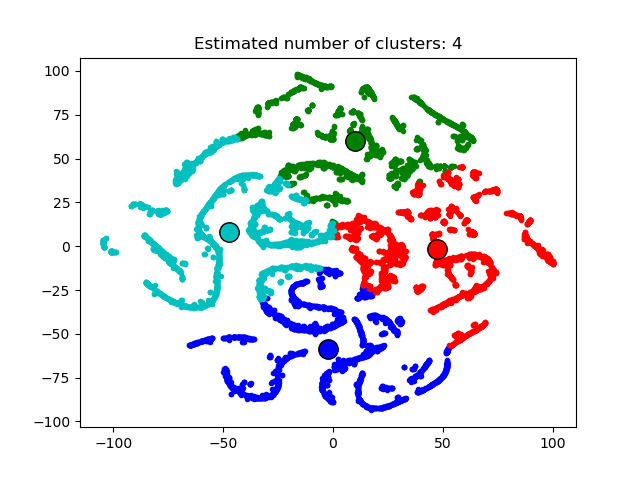
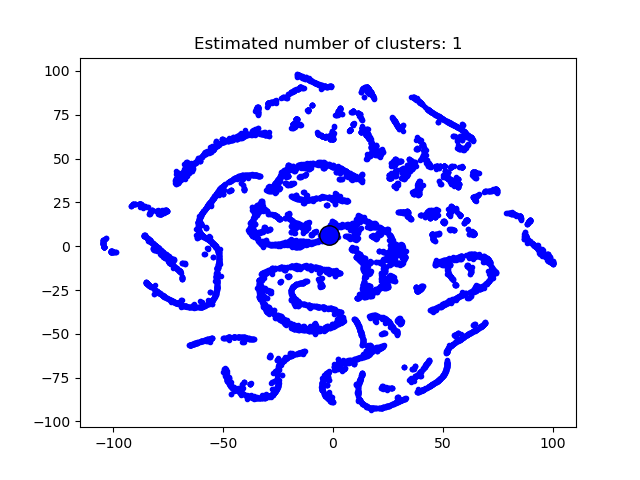
Results: 4. Rewrote the code 5. Fixed a bug with displaying graph 6. Added new two features

diff --git a/main.py b/main.py
@@ -16,144 +16,190 @@ from sklearn.cluster import KMeans
 
 from itertools import cycle
 
-df = pd.read_csv('data/features.csv', nrows=1000000, index_col=0)
-
-# # Basic analysis for data
-# print('\nDataFrame:', '\n', df)
-# print('\nDataFrame columns: ', '\n', df.columns)
-# print('\nDataFrame info:', '\n', df.info(verbose=True))
-# print('\nDataFrame description:', '\n', df.describe())
-# print('\nDataFrame shape:', '\n', df.shape)
-#
-# # Correlation for data
-# sns.heatmap(df[df.columns[1:]].corr(), square=True)
-# plt.plot()
-# print('\nCorrelation:', '\n', df[df.columns[1:]].corr() > 0.9)
-
 
 # Reduction to 2D
-sdata = shuffle(df, random_state=321)
-subset_l = 1000 # number of rows
-selected_features = df.columns[1:]
-objects_with_nan = sdata.index[np.any(np.isnan(sdata[selected_features].values), axis=1)]
-data_subset = scale(sdata[selected_features].drop(objects_with_nan, axis=0)[:subset_l])
-response_subset = sdata["out_parties_n"].drop(objects_with_nan, axis=0)[:subset_l]
+def data_preparation(df, random_state=321, sample=1000):
 
+    # Create new two features: in_value_range, out_value_range
+    df['in_value_range'] = df['in_value_max'] - df['in_value_min']
+    df['out_value_range'] = df['out_value_max'] - df['out_value_min']
+
+    subset_l = sample # number of rows
+    sdata = shuffle(df, random_state=random_state)
+    selected_features = df.columns[1:]
+    objects_with_nan = sdata.index[np.any(np.isnan(sdata[selected_features].values), axis=1)]
+    drop = sdata[selected_features].drop(objects_with_nan, axis=0)[:subset_l]
+    data_subset = scale(drop)
+    response_subset = sdata["out_parties_n"].drop(objects_with_nan, axis=0)[:subset_l]
+
+    return drop, data_subset, response_subset
 
 # tSNE
-tsne = TSNE(random_state=321)
-tsne_representation = tsne.fit_transform(data_subset)
+def tsne(data_subset, random_state=321):
+    tsne = TSNE(random_state=random_state)
+    tsne_representation = tsne.fit_transform(data_subset)
 
-colors = cm.rainbow(np.linspace(0, 1, len(set(response_subset))))
-for y, c in zip(set(df.index), colors):
-    plt.scatter(tsne_representation[response_subset.values==y, 0],
-                tsne_representation[response_subset.values==y, 1],
-                color=c, alpha=0.5, label=str(y))
+    return tsne_representation
 
-# palette = sns.color_palette("bright", 10)
-# sns.scatterplot(tsne_representation[:,0], tsne_representation[:,1], legend='full', palette=palette)
+def plot_tsne(tsne_representation, response_subset):
+    colors = cm.rainbow(np.linspace(0, 1, len(set(response_subset))))
+    for y, c in zip(set(df.index), colors):
+        plt.scatter(tsne_representation[response_subset.values == y, 0],
+                    tsne_representation[response_subset.values == y, 1],
+                    color=c, alpha=0.5, label=str(y))
 
-plt.title("T-SNE for %d rows" % subset_l)
-plt.savefig('graphs/tsne_%d.png' % subset_l)
-plt.plot()
-plt.show()
+    # palette = sns.color_palette("bright", 10)
+    # sns.scatterplot(tsne_representation[:, 0], tsne_representation[:, 1], legend='full', palette=palette)
 
+    plt.title("T-SNE for %d rows" % len(tsne_representation))
+    plt.savefig('graphs/tsne_%d.png' % len(tsne_representation))
+    plt.plot()
+    plt.show()
 
+# MDS
+def mds(data_subset, random_state=321):
+    mds = MDS(random_state = random_state)
+    MDS_transformed = mds.fit_transform(data_subset)
 
-# # MDS
-# mds = MDS(random_state = 321)
-# MDS_transformed = mds.fit_transform(data_subset)
-#
-# colors = cm.rainbow(np.linspace(0, 1, len(set(response_subset))))
-# for y, c in zip(set(response_subset), colors):
-#     plt.scatter(MDS_transformed[response_subset.values==y, 0],
-#                 MDS_transformed[response_subset.values==y, 1],
-#                 color=c, alpha=0.5, label=str(y))
-#
-# # plt.xlim(-5, 5)
-# # plt.ylim(-5, 5)  # -
-#
-# plt.title("MDS for %d rows" % subset_l)
-# plt.savefig('graphs/mds_%d.png' % subset_l)
-# plt.plot()
+    return MDS_transformed
 
+def plot_mds(MDS_transformed, response_subset):
+    colors = cm.rainbow(np.linspace(0, 1, len(set(response_subset))))
+    for y, c in zip(set(response_subset), colors):
+        plt.scatter(MDS_transformed[response_subset.values==y, 0],
+                    MDS_transformed[response_subset.values==y, 1],
+                    color=c, alpha=0.5, label=str(y))
 
+    # plt.xlim(-5, 5)
+    # plt.ylim(-5, 5)  # -
 
-# # MDS with cos
-# data_subset_cosine = pairwise_distances(data_subset, metric='cosine')
-# MDS_transformed_cos = MDS(dissimilarity='precomputed',random_state = 321).fit_transform(data_subset_cosine)
-#
-# colors = cm.rainbow(np.linspace(0, 1, len(set(response_subset))))
-# for y, c in zip(set(response_subset), colors):
-#     plt.scatter(MDS_transformed_cos[response_subset.values[:subset_l]==y, 0],
-#                 MDS_transformed_cos[response_subset.values[:subset_l]==y, 1],
-#                 color=c, alpha=0.5, label=str(y))
-# plt.legend(
-# plt.title("MDS_cosine for %d rows" % subset_l)
-# plt.savefig('graphs/mds_cosine_%d.png' % subset_l)
-# plt.plot()
+    plt.title("MDS for %d rows" % len(MDS_transformed))
+    plt.savefig('graphs/mds_%d.png' % len(MDS_transformed))
+    plt.plot()
+    plt.show()
 
+# MDS with cos
+def mds_cos(data_subset, random_state=321):
+    data_subset_cosine = pairwise_distances(data_subset, metric='cosine')
+    MDS_transformed_cos = MDS(dissimilarity='precomputed',random_state = random_state).fit_transform(data_subset_cosine)
+
+    return MDS_transformed_cos
+
+def plot_mds_cos(MDS_transformed_cos, response_subset):
+    colors = cm.rainbow(np.linspace(0, 1, len(set(response_subset))))
+    for y, c in zip(set(response_subset), colors):
+        plt.scatter(MDS_transformed_cos[response_subset.values==y, 0],
+                    MDS_transformed_cos[response_subset.values==y, 1],
+                    color=c, alpha=0.5, label=str(y))
+    plt.legend()
+    plt.title("MDS_cosine for %d rows" % len(MDS_transformed_cos))
+    plt.savefig('graphs/mds_cosine_%d.png' % len(MDS_transformed_cos))
+    plt.plot()
+    plt.show()
 
 
 # Cluster algorithms
 
 # MeanShift
-bandwidth = estimate_bandwidth(tsne_representation, quantile=0.2, n_samples=subset_l)
-model = MeanShift(bandwidth=bandwidth)
-clustering = model.fit(tsne_representation)
+def meanshift(data_representation, subset_l=1000):
 
-labels = model.labels_
-cluster_centers = model.cluster_centers_
+    bandwidth = estimate_bandwidth(data_representation, quantile=0.2, n_samples=subset_l)
+    model = MeanShift(bandwidth=bandwidth)
+    clustering = model.fit(data_representation)
 
-labels_unique = np.unique(labels)
-n_clusters_ = len(labels_unique)
+    labels = model.labels_
+    cluster_centers = model.cluster_centers_
 
-print("Number of estimated clusters : %d" % n_clusters_)
+    labels_unique = np.unique(labels)
+    n_clusters_ = len(labels_unique)
 
-# # K-Means
-# # To decide how many clusters to choose for K-Means
+    print("Number of estimated clusters : %d" % n_clusters_)
 
-# inertia = []
-# for k in range(1, 30):
-#     kmeans = KMeans(n_clusters=k, random_state=1).fit(tsne_representation)
-#     inertia.append(np.sqrt(kmeans.inertia_))
-#
-# plt.plot(range(1, 30), inertia, marker='s')
-# plt.xlabel('$k$')
-# plt.ylabel('$J(C_k)$')
-# plt.savefig('graphs/k_for_%d.png' % subset_l)
-# plt.show()
+    return clustering, cluster_centers, labels, n_clusters_
+
+# K-Means
+# To decide how many clusters to choose for K-Means
+
+def cluster_kmeans(data_representation):
+    inertia = []
+    for k in range(1, 30):
+        kmeans = KMeans(n_clusters=k, random_state=1).fit(data_representation)
+        inertia.append(np.sqrt(kmeans.inertia_))
+
+    plt.plot(range(1, 30), inertia, marker='s')
+    plt.xlabel('$k$')
+    plt.ylabel('$J(C_k)$')
+    plt.savefig('graphs/k_for_%d.png' % len(data_representation))
+    plt.show()
 
 # Try 4 clusters for 1000 rows
-# kmeans = KMeans(n_clusters=4, random_state=1).fit(tsne_representation)
-# labels = kmeans.labels_
-# cluster_centers = kmeans.cluster_centers_
-#
-# labels_unique = np.unique(labels)
-# n_clusters_ = len(labels_unique)
-#
-# print("number of estimated clusters : %d" % n_clusters_)
+def kmeans(data_representation, n_clusters=4, random_state=321):
 
+    kmeans = KMeans(n_clusters=n_clusters, random_state=random_state)
+    clustering = kmeans.fit(data_representation)
+    labels = kmeans.labels_
+    cluster_centers = kmeans.cluster_centers_
+
+    labels_unique = np.unique(labels)
+    n_clusters_ = len(labels_unique)
+
+    print("number of estimated clusters : %d" % n_clusters_)
+
+    return clustering, cluster_centers, labels, n_clusters_
 
 
 # Plot clusters
-plt.figure(1)
-plt.clf()
+def plot_clusters(n_clusters_, labels, cluster_centers, data_representation):
+    plt.figure(1)
+    plt.clf()
 
-colors = cycle("bgrcmykbgrcmykbgrcmykbgrcmyk")
-for k, col in zip(range(n_clusters_), colors):
-    my_members = labels == k
-    cluster_center = cluster_centers[k]
-    plt.plot(tsne_representation[my_members, 0], tsne_representation[my_members, 1], col + ".")
-    plt.plot(
-        cluster_center[0],
-        cluster_center[1],
-        "o",
-        markerfacecolor=col,
-        markeredgecolor="k",
-        markersize=14,
-    )
-plt.title("Estimated number of clusters: %d" % n_clusters_)
-plt.savefig('graphs/clusters_for_%d.png' % subset_l)
+    colors = cycle("bgrcmykbgrcmykbgrcmykbgrcmyk")
+    for k, col in zip(range(n_clusters_), colors):
+        my_members = labels == k
+        cluster_center = cluster_centers[k]
+        plt.plot(data_representation[my_members, 0], data_representation[my_members, 1], col + ".")
+        plt.plot(
+            cluster_center[0],
+            cluster_center[1],
+            "o",
+            markerfacecolor=col,
+            markeredgecolor="k",
+            markersize=14,
+        )
+    plt.title("Estimated number of clusters: %d" % n_clusters_)
+    plt.savefig('graphs/clusters_for_%d.png' % len(data_representation))
+    plt.plot()
+    plt.show()
+
+
+df = pd.read_csv('data/features.csv', nrows=1000000, index_col=0)
+
+# Basic analysis for data
+print('\nDataFrame:', '\n', df)
+print('\nDataFrame columns: ', '\n', df.columns)
+print('\nDataFrame info:', '\n', df.info(verbose=True))
+print('\nDataFrame description:', '\n', df.describe())
+print('\nDataFrame shape:', '\n', df.shape)
+
+# Correlation for data
+sns.heatmap(df[df.columns[1:]].corr(), square=True)
 plt.plot()
 plt.show()
+print('\nCorrelation:', '\n', df[df.columns[1:]].corr() > 0.9)
+
+sdata, data_subset, response_subset = data_preparation(df)
+data_representation = tsne(data_subset)
+plot_tsne(data_representation, response_subset)
+
+clustering, cluster_centers, labels, n_clusters_ = meanshift(data_representation)
+print('clustering: ', clustering)
+print('cluster_centers: ', cluster_centers)
+print('labels: ', labels)
+print('len labels: ', len(labels))
+print('n_clusters_: ', n_clusters_)
+plot_clusters(n_clusters_, labels, cluster_centers, data_representation)
+
+
+
+
+
